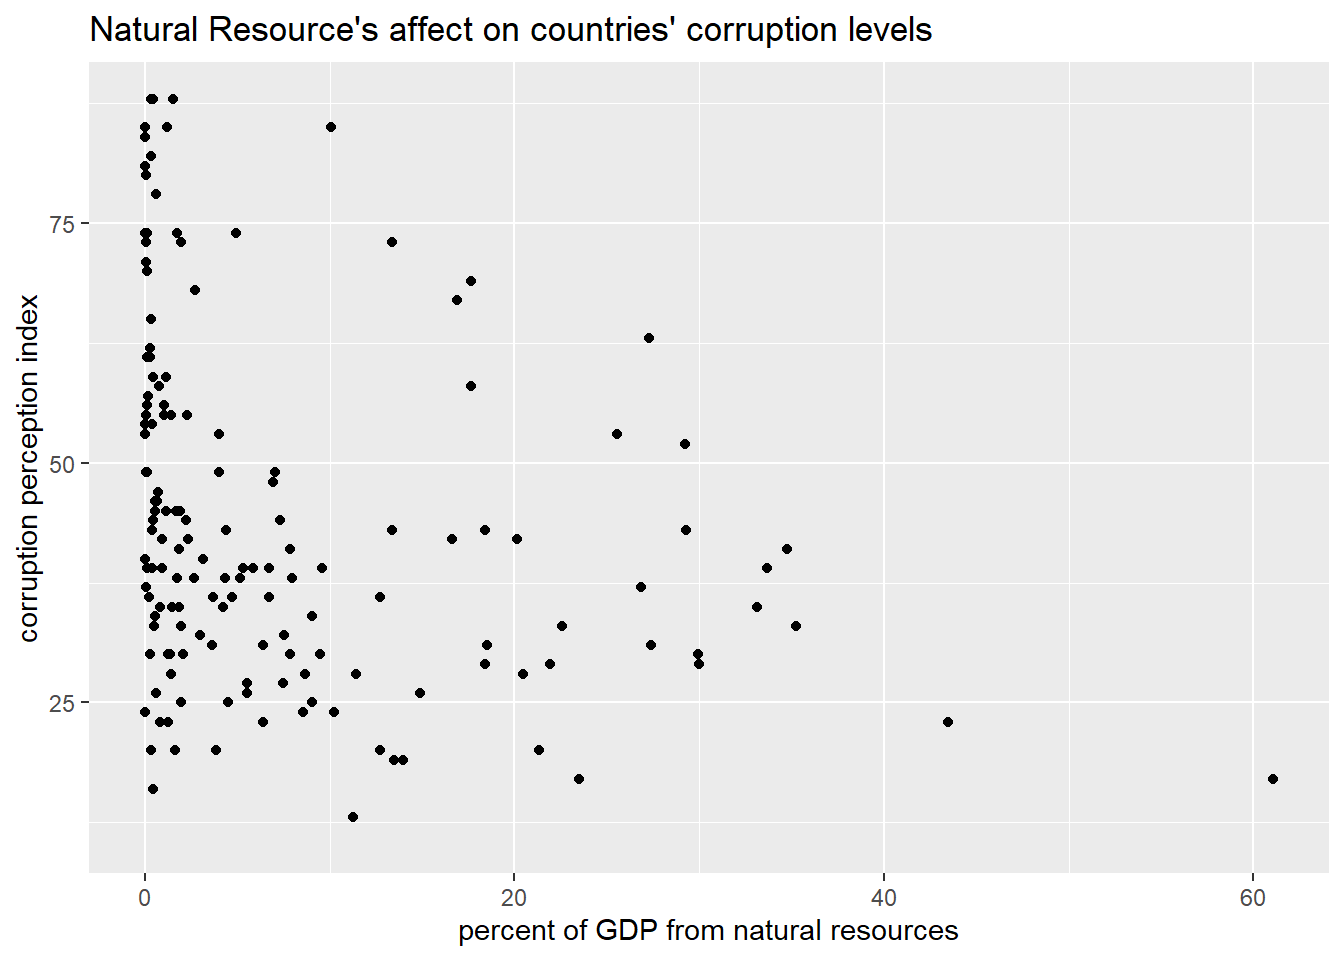
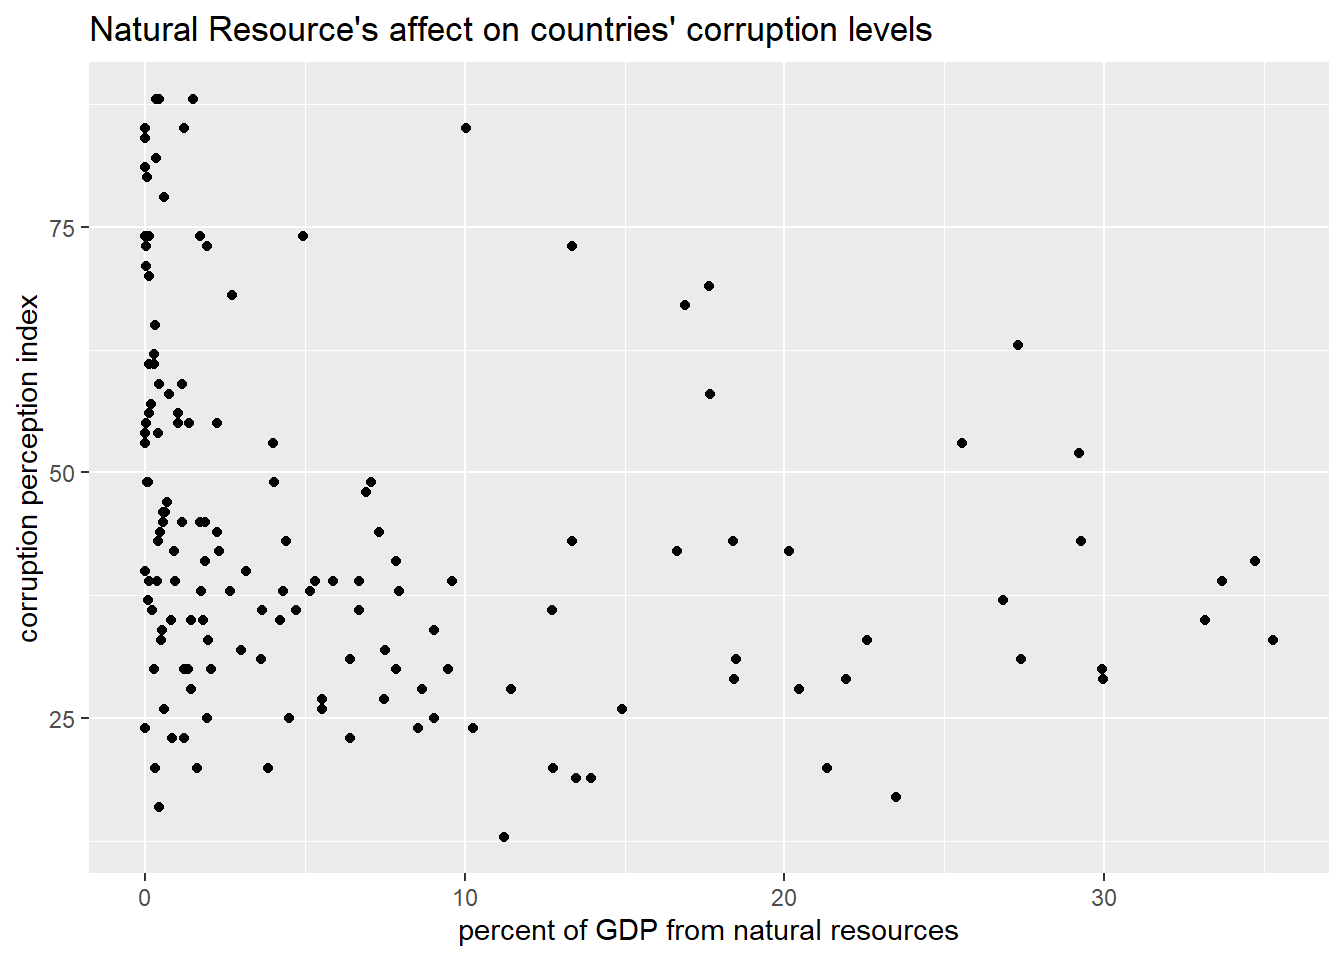
save test morans i

diff --git a/natural_resource_conflict.html b/natural_resource_conflict.html
@@ -204,7 +204,12 @@ pre > code.sourceCode > span > a:first-child::before { text-decoration: underlin
 <span id="cb3-18"><a href="#cb3-18" aria-hidden="true" tabindex="-1"></a></span>
 <span id="cb3-19"><a href="#cb3-19" aria-hidden="true" tabindex="-1"></a><span class="co"># Change total natural resource data to numeric as well</span></span>
 <span id="cb3-20"><a href="#cb3-20" aria-hidden="true" tabindex="-1"></a>corrupt_resource_select<span class="sc">$</span>total_natural_resources_rents_percent_of_gdp <span class="ot">&lt;-</span> <span class="fu">as.numeric</span>(corrupt_resource_select<span class="sc">$</span>total_natural_resources_rents_percent_of_gdp)</span>
-<span id="cb3-21"><a href="#cb3-21" aria-hidden="true" tabindex="-1"></a><span class="do">## Warning: NAs introduced by coercion</span></span></code><button title="Copy to Clipboard" class="code-copy-button"><i class="bi"></i></button></pre></div>
+<span id="cb3-21"><a href="#cb3-21" aria-hidden="true" tabindex="-1"></a><span class="do">## Warning: NAs introduced by coercion</span></span>
+<span id="cb3-22"><a href="#cb3-22" aria-hidden="true" tabindex="-1"></a></span>
+<span id="cb3-23"><a href="#cb3-23" aria-hidden="true" tabindex="-1"></a><span class="co"># exclude outliers</span></span>
+<span id="cb3-24"><a href="#cb3-24" aria-hidden="true" tabindex="-1"></a>corrupt_resource_select <span class="ot">&lt;-</span> corrupt_resource_select <span class="sc">|&gt;</span> </span>
+<span id="cb3-25"><a href="#cb3-25" aria-hidden="true" tabindex="-1"></a>  <span class="fu">filter</span>(total_natural_resources_rents_percent_of_gdp <span class="sc">&lt;=</span> <span class="dv">40</span>) <span class="sc">|&gt;</span> </span>
+<span id="cb3-26"><a href="#cb3-26" aria-hidden="true" tabindex="-1"></a>  <span class="fu">filter</span>(<span class="sc">!</span><span class="fu">is.na</span>(cpi_score_2021))</span></code><button title="Copy to Clipboard" class="code-copy-button"><i class="bi"></i></button></pre></div>
 </details>
 </div>
 </section>
@@ -221,9 +226,7 @@ pre > code.sourceCode > span > a:first-child::before { text-decoration: underlin
 <span id="cb4-6"><a href="#cb4-6" aria-hidden="true" tabindex="-1"></a>  <span class="fu">labs</span>(<span class="at">title =</span> <span class="st">"Natural Resource's affect on countries' corruption levels"</span>) <span class="sc">+</span></span>
 <span id="cb4-7"><a href="#cb4-7" aria-hidden="true" tabindex="-1"></a>  <span class="fu">theme_grey</span>() </span>
 <span id="cb4-8"><a href="#cb4-8" aria-hidden="true" tabindex="-1"></a></span>
-<span id="cb4-9"><a href="#cb4-9" aria-hidden="true" tabindex="-1"></a><span class="fu">print</span>(first_plot)</span>
-<span id="cb4-10"><a href="#cb4-10" aria-hidden="true" tabindex="-1"></a><span class="do">## Warning: Removed 85 rows containing missing values or values outside the scale range</span></span>
-<span id="cb4-11"><a href="#cb4-11" aria-hidden="true" tabindex="-1"></a><span class="do">## (`geom_point()`).</span></span></code><button title="Copy to Clipboard" class="code-copy-button"><i class="bi"></i></button></pre></div>
+<span id="cb4-9"><a href="#cb4-9" aria-hidden="true" tabindex="-1"></a><span class="fu">print</span>(first_plot)</span></code><button title="Copy to Clipboard" class="code-copy-button"><i class="bi"></i></button></pre></div>
 </details>
 <div class="cell-output-display">
 <div>
@@ -260,24 +263,24 @@ pre > code.sourceCode > span > a:first-child::before { text-decoration: underlin
 </tr>
 <tr class="odd">
 <td style="text-align: left; padding: 0.2cm; vertical-align: top;">(Intercept)</td>
-<td style="text-align: left; padding: 0.2cm; vertical-align: top;">48.33</td>
-<td style="text-align: left; padding: 0.2cm; vertical-align: top;">44.92&nbsp;–&nbsp;51.75</td>
+<td style="text-align: left; padding: 0.2cm; vertical-align: top;">48.35</td>
+<td style="text-align: left; padding: 0.2cm; vertical-align: top;">44.82&nbsp;–&nbsp;51.88</td>
 <td style="text-align: left; padding: 0.2cm; vertical-align: top;"><strong>&lt;0.001</strong></td>
 </tr>
 <tr class="even">
 <td style="text-align: left; padding: 0.2cm; vertical-align: top;">total natural resources<br>
 rents percent of gdp</td>
 <td style="text-align: left; padding: 0.2cm; vertical-align: top;">-0.54</td>
-<td style="text-align: left; padding: 0.2cm; vertical-align: top;">-0.81&nbsp;–&nbsp;-0.27</td>
-<td style="text-align: left; padding: 0.2cm; vertical-align: top;"><strong>&lt;0.001</strong></td>
+<td style="text-align: left; padding: 0.2cm; vertical-align: top;">-0.86&nbsp;–&nbsp;-0.23</td>
+<td style="text-align: left; padding: 0.2cm; vertical-align: top;"><strong>0.001</strong></td>
 </tr>
 <tr class="odd">
 <td style="text-align: left; padding: 0.2cm; vertical-align: top; padding-top: 0.1cm; padding-bottom: 0.1cm; border-top: 1px solid;">Observations</td>
-<td colspan="3" style="text-align: left; padding: 0.2cm; vertical-align: top; padding-top: 0.1cm; padding-bottom: 0.1cm; border-top: 1px solid;">155</td>
+<td colspan="3" style="text-align: left; padding: 0.2cm; vertical-align: top; padding-top: 0.1cm; padding-bottom: 0.1cm; border-top: 1px solid;">153</td>
 </tr>
 <tr class="even">
 <td style="text-align: left; padding: 0.2cm; vertical-align: top; padding-top: 0.1cm; padding-bottom: 0.1cm;">R<sup>2</sup> / R<sup>2</sup> adjusted</td>
-<td colspan="3" style="text-align: left; padding: 0.2cm; vertical-align: top; padding-top: 0.1cm; padding-bottom: 0.1cm;">0.094 / 0.088</td>
+<td colspan="3" style="text-align: left; padding: 0.2cm; vertical-align: top; padding-top: 0.1cm; padding-bottom: 0.1cm;">0.072 / 0.066</td>
 </tr>
 </tbody>
 </table>
@@ -286,8 +289,8 @@ rents percent of gdp</td>
 </div>
 </div>
 <p>There are a few numbers here that are of interest to us. First let’s look at the intercept and the total_natural_resources_rents_percent_of_gdp (the slope). According to our model, if our hypothetical country had no GDP resulting from natural resources, then the corruption level would be at 48. We could maybe buy this if we hadn’t looked at the graph, but when we look at our data points visually it looks like our intercept is really just halfway in between our huge cluster of points around zero that seem to be evenly dispersed on the y axis. When looking at the slope we can also see that it’s very small. Each percentage point increase in GDP results in a less than 1 index level decrease.</p>
-<p>The p-values for both our intercept and slope are very small. Our intercept is less than .000000000000000002 (essentially zero for our purposes) and our slope has a p-value of .000106, also a very small number. Both are far below .05, the number needed for a value to be statistically significant. So if these values are both statistically significant, why do I still not trust that it’s meaningful?</p>
-<p>Let’s look at adjusted R squared value. It’s about 0.09. R squared is always a value from 0 to 1, where 0 means that the model explains essentially zero percent of the change in y, and 1 means that the model is the perfect fit and the variable explains 100 percent of the change in y. Our value is less than .1, essentially meaning that the percent of GDP from natural resources explains less than 10 percent of the corruption levels in countries. So our model is statistically significant but explains very little of corruption levels.</p>
+<p>The p-values for both our intercept and slope are very small. Our intercept is less than .001 (essentially zero for our purposes) and our slope has a p-value of .000106, also a very small number. Both are far below .05, the number needed for a value to be statistically significant. So if these values are both statistically significant, why do I still not trust that it’s meaningful?</p>
+<p>Let’s look at adjusted R squared value. It’s about 0.07. R squared is always a value from 0 to 1, where 0 means that the model explains essentially zero percent of the change in y, and 1 means that the model is the perfect fit and the variable explains 100 percent of the change in y. Our value is less than .1, essentially meaning that the percent of GDP from natural resources explains just over 7 percent of the corruption levels in countries. So our model is statistically significant but explains very little of corruption levels.</p>
 <p>This makes sense when we look at our graph with our best fit line. If we squint at the graph, we can <em>maybe</em> see a correlation, but it’s certainly a stretch. The graph, along with our linear model summary, makes us think that there is definitely omitted variable bias here.</p>
 <div class="cell">
 <details class="code-fold">
@@ -301,11 +304,7 @@ rents percent of gdp</td>
 <span id="cb6-7"><a href="#cb6-7" aria-hidden="true" tabindex="-1"></a><span class="fu">geom_smooth</span>(<span class="at">formula =</span> y <span class="sc">~</span> x,</span>
 <span id="cb6-8"><a href="#cb6-8" aria-hidden="true" tabindex="-1"></a>              <span class="at">se =</span> <span class="cn">FALSE</span>,</span>
 <span id="cb6-9"><a href="#cb6-9" aria-hidden="true" tabindex="-1"></a>              <span class="at">method =</span> lm)</span>
-<span id="cb6-10"><a href="#cb6-10" aria-hidden="true" tabindex="-1"></a><span class="fu">print</span>(smooth_plot)</span>
-<span id="cb6-11"><a href="#cb6-11" aria-hidden="true" tabindex="-1"></a><span class="do">## Warning: Removed 85 rows containing non-finite outside the scale range</span></span>
-<span id="cb6-12"><a href="#cb6-12" aria-hidden="true" tabindex="-1"></a><span class="do">## (`stat_smooth()`).</span></span>
-<span id="cb6-13"><a href="#cb6-13" aria-hidden="true" tabindex="-1"></a><span class="do">## Warning: Removed 85 rows containing missing values or values outside the scale range</span></span>
-<span id="cb6-14"><a href="#cb6-14" aria-hidden="true" tabindex="-1"></a><span class="do">## (`geom_point()`).</span></span></code><button title="Copy to Clipboard" class="code-copy-button"><i class="bi"></i></button></pre></div>
+<span id="cb6-10"><a href="#cb6-10" aria-hidden="true" tabindex="-1"></a><span class="fu">print</span>(smooth_plot)</span></code><button title="Copy to Clipboard" class="code-copy-button"><i class="bi"></i></button></pre></div>
 </details>
 <div class="cell-output-display">
 <div>
@@ -396,9 +395,9 @@ rents percent of gdp</td>
 <span id="cb10-11"><a href="#cb10-11" aria-hidden="true" tabindex="-1"></a>  <span class="fu">scale_color_hue</span>(<span class="at">labels =</span> <span class="fu">c</span>(<span class="st">"closed autocracies"</span>, <span class="st">"electorial autocracies"</span>, <span class="st">"electoral democracies"</span>, <span class="st">"liberal democracies"</span>))</span>
 <span id="cb10-12"><a href="#cb10-12" aria-hidden="true" tabindex="-1"></a></span>
 <span id="cb10-13"><a href="#cb10-13" aria-hidden="true" tabindex="-1"></a><span class="fu">print</span>(regime_plot)</span>
-<span id="cb10-14"><a href="#cb10-14" aria-hidden="true" tabindex="-1"></a><span class="do">## Warning: Removed 25 rows containing non-finite outside the scale range</span></span>
+<span id="cb10-14"><a href="#cb10-14" aria-hidden="true" tabindex="-1"></a><span class="do">## Warning: Removed 27 rows containing non-finite outside the scale range</span></span>
 <span id="cb10-15"><a href="#cb10-15" aria-hidden="true" tabindex="-1"></a><span class="do">## (`stat_smooth()`).</span></span>
-<span id="cb10-16"><a href="#cb10-16" aria-hidden="true" tabindex="-1"></a><span class="do">## Warning: Removed 25 rows containing missing values or values outside the scale range</span></span>
+<span id="cb10-16"><a href="#cb10-16" aria-hidden="true" tabindex="-1"></a><span class="do">## Warning: Removed 27 rows containing missing values or values outside the scale range</span></span>
 <span id="cb10-17"><a href="#cb10-17" aria-hidden="true" tabindex="-1"></a><span class="do">## (`geom_point()`).</span></span></code><button title="Copy to Clipboard" class="code-copy-button"><i class="bi"></i></button></pre></div>
 </details>
 <div class="cell-output-display">
@@ -438,68 +437,68 @@ rents percent of gdp</td>
 </tr>
 <tr class="odd">
 <td style="text-align: left; padding: 0.2cm; vertical-align: top;">(Intercept)</td>
-<td style="text-align: left; padding: 0.2cm; vertical-align: top;">11.75</td>
-<td style="text-align: left; padding: 0.2cm; vertical-align: top;">1.05&nbsp;–&nbsp;22.44</td>
-<td style="text-align: left; padding: 0.2cm; vertical-align: top;"><strong>0.032</strong></td>
+<td style="text-align: left; padding: 0.2cm; vertical-align: top;">1.75</td>
+<td style="text-align: left; padding: 0.2cm; vertical-align: top;">-8.05&nbsp;–&nbsp;11.54</td>
+<td style="text-align: left; padding: 0.2cm; vertical-align: top;">0.725</td>
 </tr>
 <tr class="even">
 <td style="text-align: left; padding: 0.2cm; vertical-align: top;">cpi score 2021</td>
-<td style="text-align: left; padding: 0.2cm; vertical-align: top;">0.04</td>
-<td style="text-align: left; padding: 0.2cm; vertical-align: top;">-0.24&nbsp;–&nbsp;0.31</td>
-<td style="text-align: left; padding: 0.2cm; vertical-align: top;">0.780</td>
+<td style="text-align: left; padding: 0.2cm; vertical-align: top;">0.24</td>
+<td style="text-align: left; padding: 0.2cm; vertical-align: top;">-0.00&nbsp;–&nbsp;0.49</td>
+<td style="text-align: left; padding: 0.2cm; vertical-align: top;">0.054</td>
 </tr>
 <tr class="odd">
 <td style="text-align: left; padding: 0.2cm; vertical-align: top;">political regime<br>
 [electoral_autocracies]</td>
-<td style="text-align: left; padding: 0.2cm; vertical-align: top;">4.46</td>
-<td style="text-align: left; padding: 0.2cm; vertical-align: top;">-9.14&nbsp;–&nbsp;18.06</td>
-<td style="text-align: left; padding: 0.2cm; vertical-align: top;">0.518</td>
+<td style="text-align: left; padding: 0.2cm; vertical-align: top;">12.22</td>
+<td style="text-align: left; padding: 0.2cm; vertical-align: top;">-0.02&nbsp;–&nbsp;24.47</td>
+<td style="text-align: left; padding: 0.2cm; vertical-align: top;">0.050</td>
 </tr>
 <tr class="even">
 <td style="text-align: left; padding: 0.2cm; vertical-align: top;">political regime<br>
 [electoral_democracies]</td>
-<td style="text-align: left; padding: 0.2cm; vertical-align: top;">2.21</td>
-<td style="text-align: left; padding: 0.2cm; vertical-align: top;">-13.87&nbsp;–&nbsp;18.30</td>
-<td style="text-align: left; padding: 0.2cm; vertical-align: top;">0.786</td>
+<td style="text-align: left; padding: 0.2cm; vertical-align: top;">12.21</td>
+<td style="text-align: left; padding: 0.2cm; vertical-align: top;">-2.05&nbsp;–&nbsp;26.48</td>
+<td style="text-align: left; padding: 0.2cm; vertical-align: top;">0.093</td>
 </tr>
 <tr class="odd">
 <td style="text-align: left; padding: 0.2cm; vertical-align: top;">political regime<br>
 [liberal_democracies]</td>
-<td style="text-align: left; padding: 0.2cm; vertical-align: top;">-11.75</td>
-<td style="text-align: left; padding: 0.2cm; vertical-align: top;">-37.80&nbsp;–&nbsp;14.31</td>
-<td style="text-align: left; padding: 0.2cm; vertical-align: top;">0.374</td>
+<td style="text-align: left; padding: 0.2cm; vertical-align: top;">-1.74</td>
+<td style="text-align: left; padding: 0.2cm; vertical-align: top;">-24.48&nbsp;–&nbsp;21.00</td>
+<td style="text-align: left; padding: 0.2cm; vertical-align: top;">0.880</td>
 </tr>
 <tr class="even">
 <td style="text-align: left; padding: 0.2cm; vertical-align: top;">cpi score 2021 ×<br>
 political regime<br>
 [electoral_autocracies]</td>
-<td style="text-align: left; padding: 0.2cm; vertical-align: top;">-0.22</td>
-<td style="text-align: left; padding: 0.2cm; vertical-align: top;">-0.59&nbsp;–&nbsp;0.15</td>
-<td style="text-align: left; padding: 0.2cm; vertical-align: top;">0.236</td>
+<td style="text-align: left; padding: 0.2cm; vertical-align: top;">-0.38</td>
+<td style="text-align: left; padding: 0.2cm; vertical-align: top;">-0.70&nbsp;–&nbsp;-0.05</td>
+<td style="text-align: left; padding: 0.2cm; vertical-align: top;"><strong>0.023</strong></td>
 </tr>
 <tr class="odd">
 <td style="text-align: left; padding: 0.2cm; vertical-align: top;">cpi score 2021 ×<br>
 political regime<br>
 [electoral_democracies]</td>
-<td style="text-align: left; padding: 0.2cm; vertical-align: top;">-0.22</td>
-<td style="text-align: left; padding: 0.2cm; vertical-align: top;">-0.61&nbsp;–&nbsp;0.17</td>
-<td style="text-align: left; padding: 0.2cm; vertical-align: top;">0.262</td>
+<td style="text-align: left; padding: 0.2cm; vertical-align: top;">-0.43</td>
+<td style="text-align: left; padding: 0.2cm; vertical-align: top;">-0.77&nbsp;–&nbsp;-0.08</td>
+<td style="text-align: left; padding: 0.2cm; vertical-align: top;"><strong>0.016</strong></td>
 </tr>
 <tr class="even">
 <td style="text-align: left; padding: 0.2cm; vertical-align: top;">cpi score 2021 ×<br>
 political regime<br>
 [liberal_democracies]</td>
-<td style="text-align: left; padding: 0.2cm; vertical-align: top;">-0.01</td>
-<td style="text-align: left; padding: 0.2cm; vertical-align: top;">-0.44&nbsp;–&nbsp;0.41</td>
-<td style="text-align: left; padding: 0.2cm; vertical-align: top;">0.956</td>
+<td style="text-align: left; padding: 0.2cm; vertical-align: top;">-0.22</td>
+<td style="text-align: left; padding: 0.2cm; vertical-align: top;">-0.59&nbsp;–&nbsp;0.16</td>
+<td style="text-align: left; padding: 0.2cm; vertical-align: top;">0.258</td>
 </tr>
 <tr class="odd">
 <td style="text-align: left; padding: 0.2cm; vertical-align: top; padding-top: 0.1cm; padding-bottom: 0.1cm; border-top: 1px solid;">Observations</td>
-<td colspan="3" style="text-align: left; padding: 0.2cm; vertical-align: top; padding-top: 0.1cm; padding-bottom: 0.1cm; border-top: 1px solid;">152</td>
+<td colspan="3" style="text-align: left; padding: 0.2cm; vertical-align: top; padding-top: 0.1cm; padding-bottom: 0.1cm; border-top: 1px solid;">150</td>
 </tr>
 <tr class="even">
 <td style="text-align: left; padding: 0.2cm; vertical-align: top; padding-top: 0.1cm; padding-bottom: 0.1cm;">R<sup>2</sup> / R<sup>2</sup> adjusted</td>
-<td colspan="3" style="text-align: left; padding: 0.2cm; vertical-align: top; padding-top: 0.1cm; padding-bottom: 0.1cm;">0.148 / 0.107</td>
+<td colspan="3" style="text-align: left; padding: 0.2cm; vertical-align: top; padding-top: 0.1cm; padding-bottom: 0.1cm;">0.158 / 0.116</td>
 </tr>
 </tbody>
 </table>
@@ -507,7 +506,7 @@ political regime<br>
 
 </div>
 </div>
-<p>The first thing I notice when I look at our results. Besides the intercept, every single p-value is far above .05, which makes them all statistically insignificant. Therefore we fail to reject the null hypothesis. It makes sense to me that this interaction is insignificant, because the slopes we were getting were very surprising and didn’t make much logical sense to me. We cannot assume that any of the interaction trends we saw were not just due to chance.</p>
+<p>The first thing I notice when I look at our results are that most p-values are above .05, which makes them all statistically insignificant. Therefore we fail to reject the null hypothesis. The only one that is significant is the electoral autocracies, although because the other values are not statistically significant, it’s hard for me to trust the electoral autocracy coefficients independent of the other values. It makes sense to me that this interaction is insignificant, because the slopes we were getting were very surprising and didn’t make much logical sense to me. We cannot assume that any of the interaction trends we saw were not just due to chance.</p>
 </section>
 </section>
 </section>
@@ -516,6 +515,31 @@ political regime<br>
 <p>Our results are overall inconclusive. Our first linear model just looked at the percent of GDP from natural resources. There was no an obvious correlation from just looking at the data points on the graph, but our line of best fit revealed a negative slope, revealing that as the percent of GDP goes up, the corruption also goes up (a lower index number = more corruption). Although these results were statistically significant, the adjusted R squared value revealed that it only explained about nine percent of the corruption levels in countries around the world.</p>
 <p>My solution to the low R squared value was to add another variable, as it was quite likely we had omitted variable bias. I decided to add political regime type as our additional variable. I logically assumed that the regime type would have differing affects on the relationship. When I added in political regimes however, I saw that my results were no longer statistically significant.</p>
 <p>If I had more time I would have continued exploring more variables. Developed versus developing country, overall GDP amount, and economic systems would all be interesting to analyze in relation to corruption and natural resources. I am also skeptical that a linear model is truly the correct model to be using in this situation, as corruption is very complex and probably not a completely linear issue.</p>
+<p>When we look at the residuals of our original linear model, we see that they are clumped on the far right side of the graph. I believe that indicates where there is a large clump of data points around the less than 2% GDP mark.</p>
+<div class="cell">
+<div class="sourceCode cell-code" id="cb12"><pre class="sourceCode r code-with-copy"><code class="sourceCode r"><span id="cb12-1"><a href="#cb12-1" aria-hidden="true" tabindex="-1"></a>res <span class="ot">&lt;-</span> <span class="fu">resid</span>(lm1)</span>
+<span id="cb12-2"><a href="#cb12-2" aria-hidden="true" tabindex="-1"></a></span>
+<span id="cb12-3"><a href="#cb12-3" aria-hidden="true" tabindex="-1"></a><span class="fu">plot</span>(<span class="fu">fitted</span>(lm1), res)</span>
+<span id="cb12-4"><a href="#cb12-4" aria-hidden="true" tabindex="-1"></a></span>
+<span id="cb12-5"><a href="#cb12-5" aria-hidden="true" tabindex="-1"></a><span class="fu">abline</span>(<span class="dv">0</span>,<span class="dv">0</span>)</span></code><button title="Copy to Clipboard" class="code-copy-button"><i class="bi"></i></button></pre></div>
+<div class="cell-output-display">
+<div>
+<figure class="figure">
+<p><img src="natural_resource_conflict_files/figure-html/unnamed-chunk-12-1.png" class="img-fluid figure-img" width="672"></p>
+</figure>
+</div>
+</div>
+</div>
+<p>Let’s look at what countries are in that clump</p>
+<div class="cell">
+<div class="sourceCode cell-code" id="cb13"><pre class="sourceCode r code-with-copy"><code class="sourceCode r"><span id="cb13-1"><a href="#cb13-1" aria-hidden="true" tabindex="-1"></a>low_percent <span class="ot">&lt;-</span> corrupt_resource_select <span class="sc">|&gt;</span> </span>
+<span id="cb13-2"><a href="#cb13-2" aria-hidden="true" tabindex="-1"></a>  <span class="fu">filter</span>(total_natural_resources_rents_percent_of_gdp <span class="sc">&lt;</span> <span class="dv">2</span>)</span>
+<span id="cb13-3"><a href="#cb13-3" aria-hidden="true" tabindex="-1"></a><span class="fu">print</span>(<span class="fu">dim</span>(low_percent))</span></code><button title="Copy to Clipboard" class="code-copy-button"><i class="bi"></i></button></pre></div>
+<div class="cell-output cell-output-stdout">
+<pre><code>[1] 75  9</code></pre>
+</div>
+</div>
+<p>There are 75 countries that have a GDP percentage under 2 from natural resources. They are not geographically related, Europe has 36 countries, Asia has 17, Africa has 8, the Americas have 12, Oceania has 2. They are not all developed or undeveloped, 29 are developed and 46 are developing. Without more time, we can’t fully examine the relationship between the countries in this cluster.</p>
 <p>Full acknowledgements:</p>
 <table class="caption-top table">
 <colgroup>
